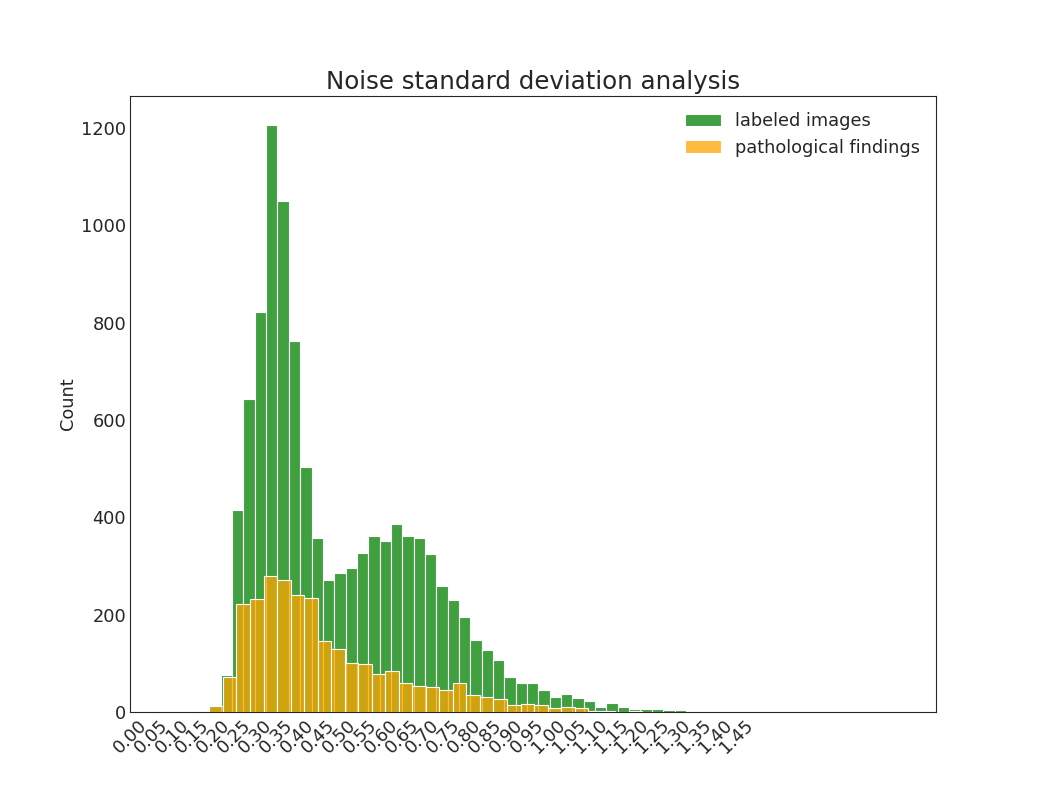
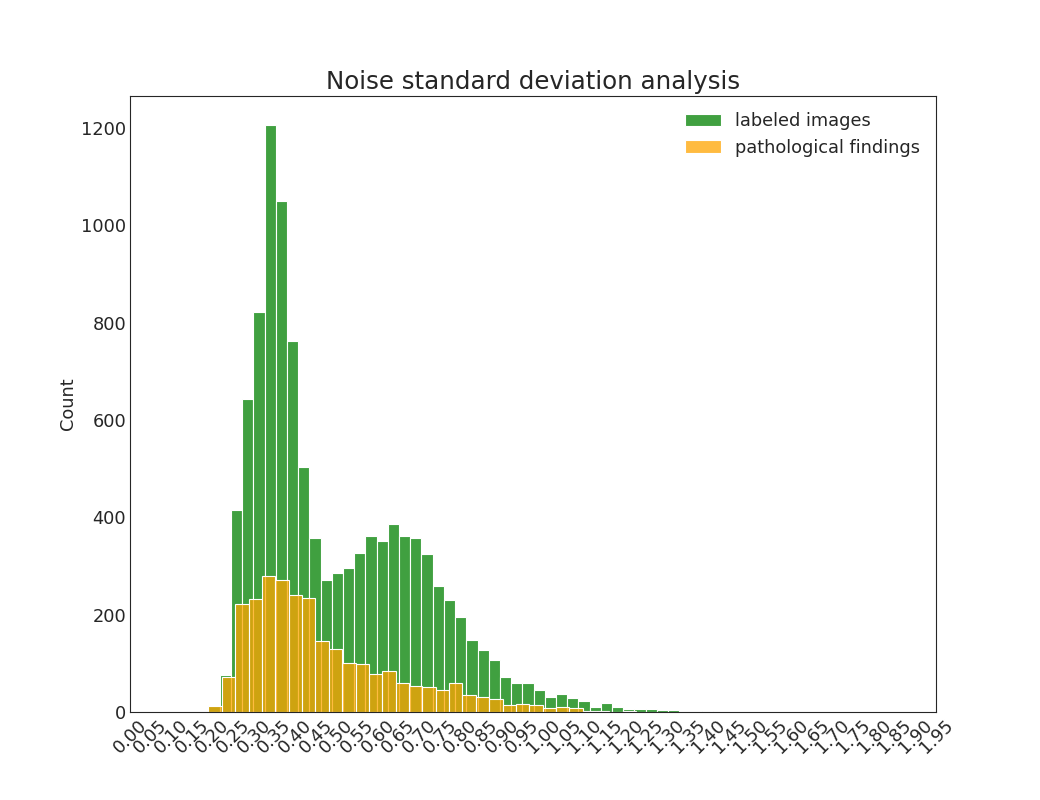
update res

Changed region(s): [[0.1231, 0.25, 0.9231, 0.9375]]

diff --git a/2021/src/Pre-processing/Isotropic/Noise/src/modules/CheckNoise.py b/2021/src/Pre-processing/Isotropic/Noise/src/modules/CheckNoise.py
@@ -125,7 +125,7 @@ def plotHistogram(arr, arr2):
     sns.histplot(arr, color="g", label="labeled images")
     sns.histplot(arr2, label="pathological findings", color="orange")
     # plt.ylim(0, 0.35)
-    plt.xticks(np.arange(0, 1.5, 0.05), rotation=45)
+    plt.xticks(np.arange(0, 2, 0.05), rotation=45)
     # Decoration
     plt.title('Noise standard deviation analysis', fontsize=22)
     plt.legend()
